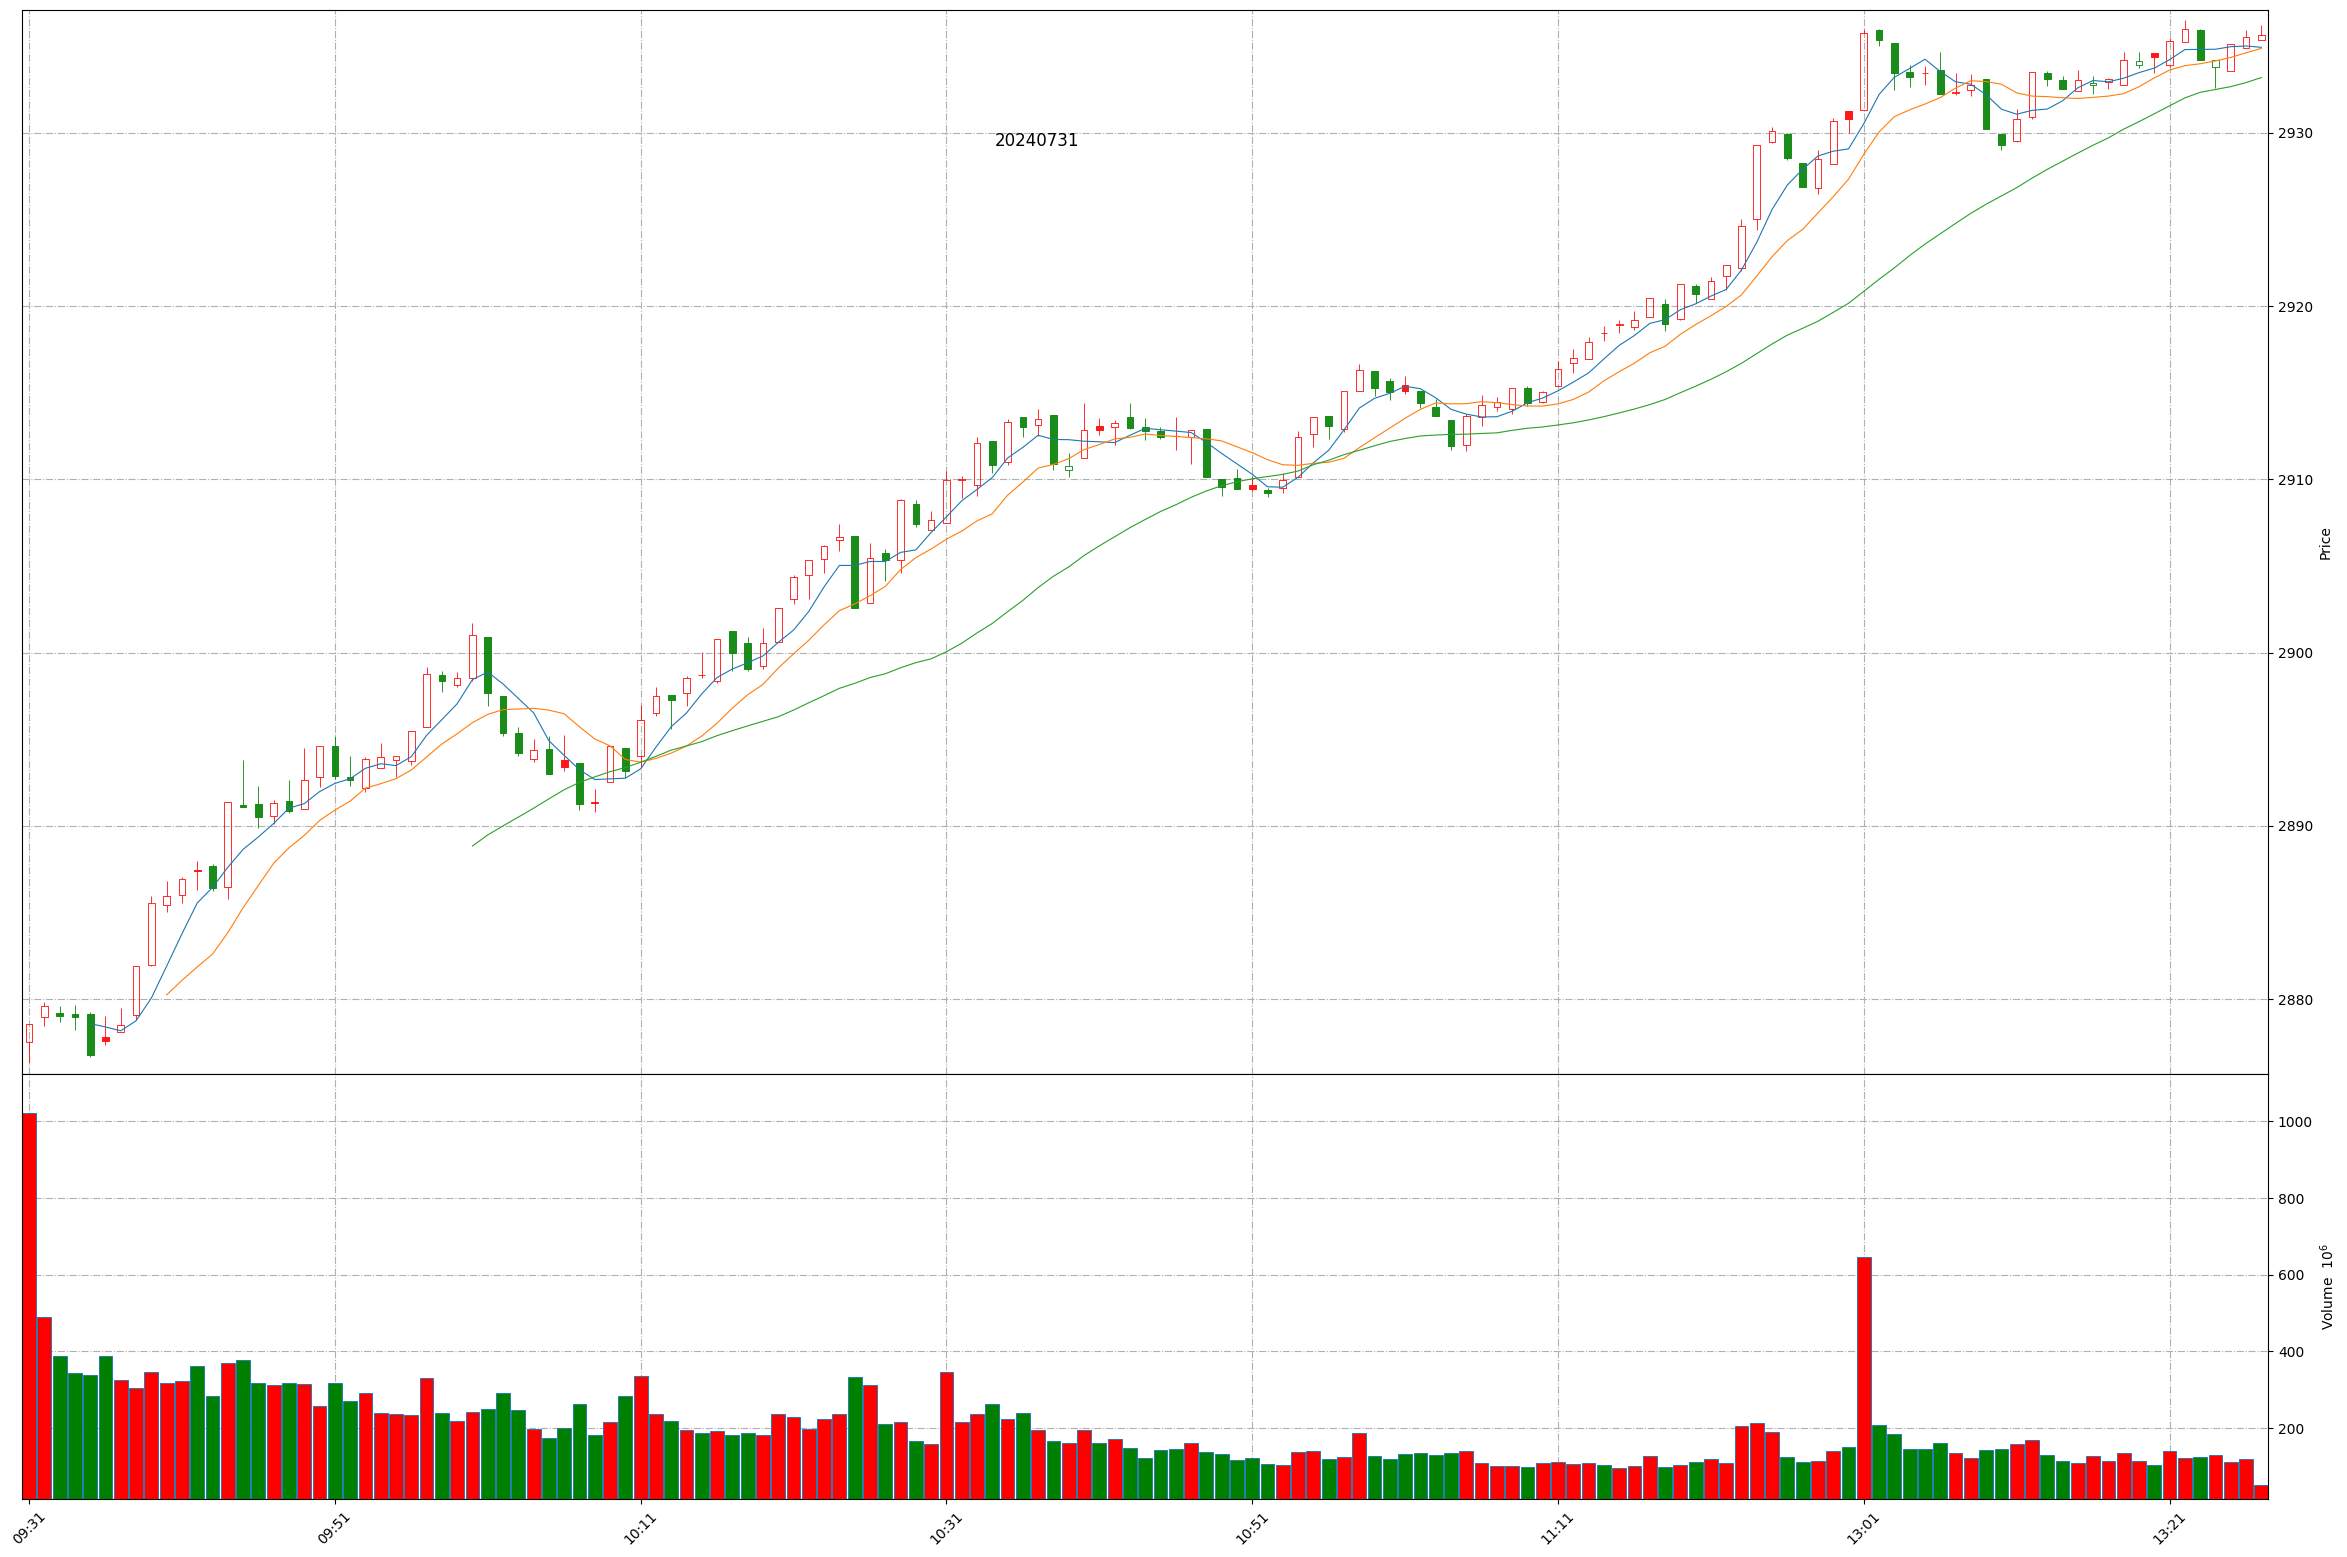
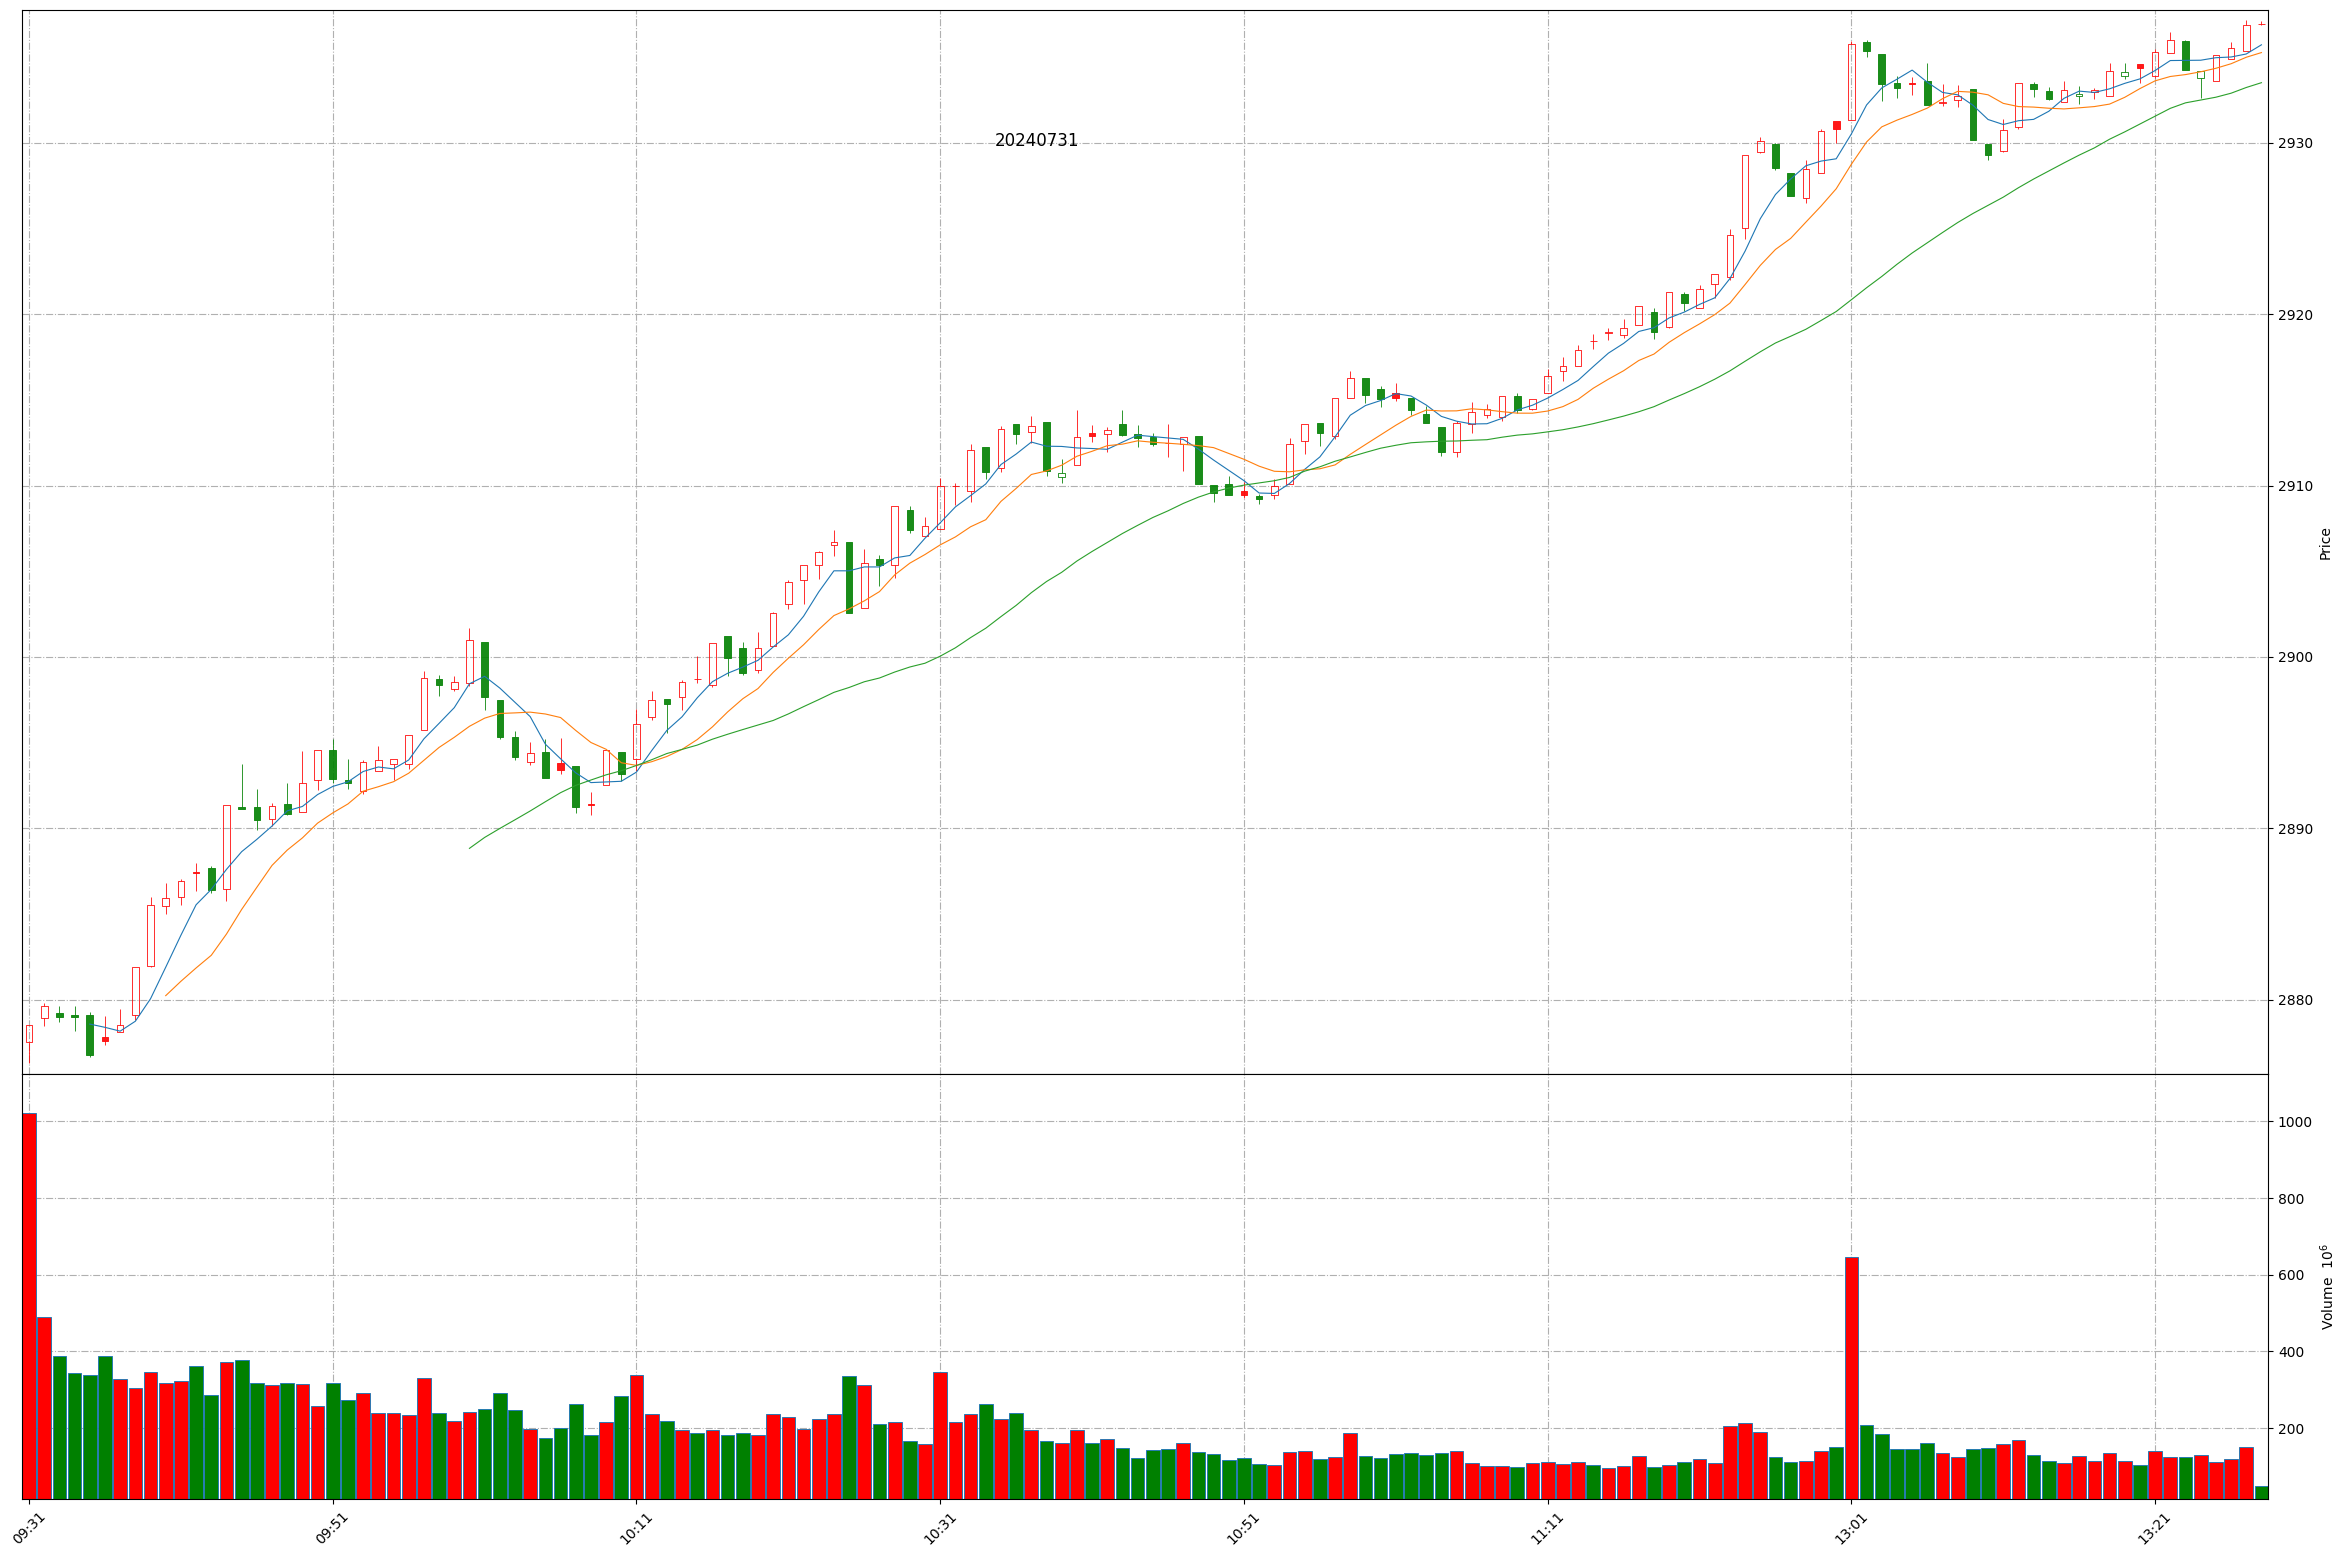
Github action update at 2024-07-31 13:27:48.

diff --git a/README.md b/README.md
@@ -1,11 +1,11 @@
 
 # Daily-A-share-market-quotes 每日 A 股指数（5min 更新）- 20240731
 
-### 上证指数 20240731 13:26
+### 上证指数 20240731 13:27
 ![](./fig/2024/7/20240731-sh000001.png)
 
-### 深证成指 20240731 13:26
+### 深证成指 20240731 13:27
 ![](./fig/2024/7/20240731-sz399001.png)
 
-### 北证50 20240731 13:26
+### 北证50 20240731 13:27
 ![](./fig/2024/7/20240731-bj899050.png)
